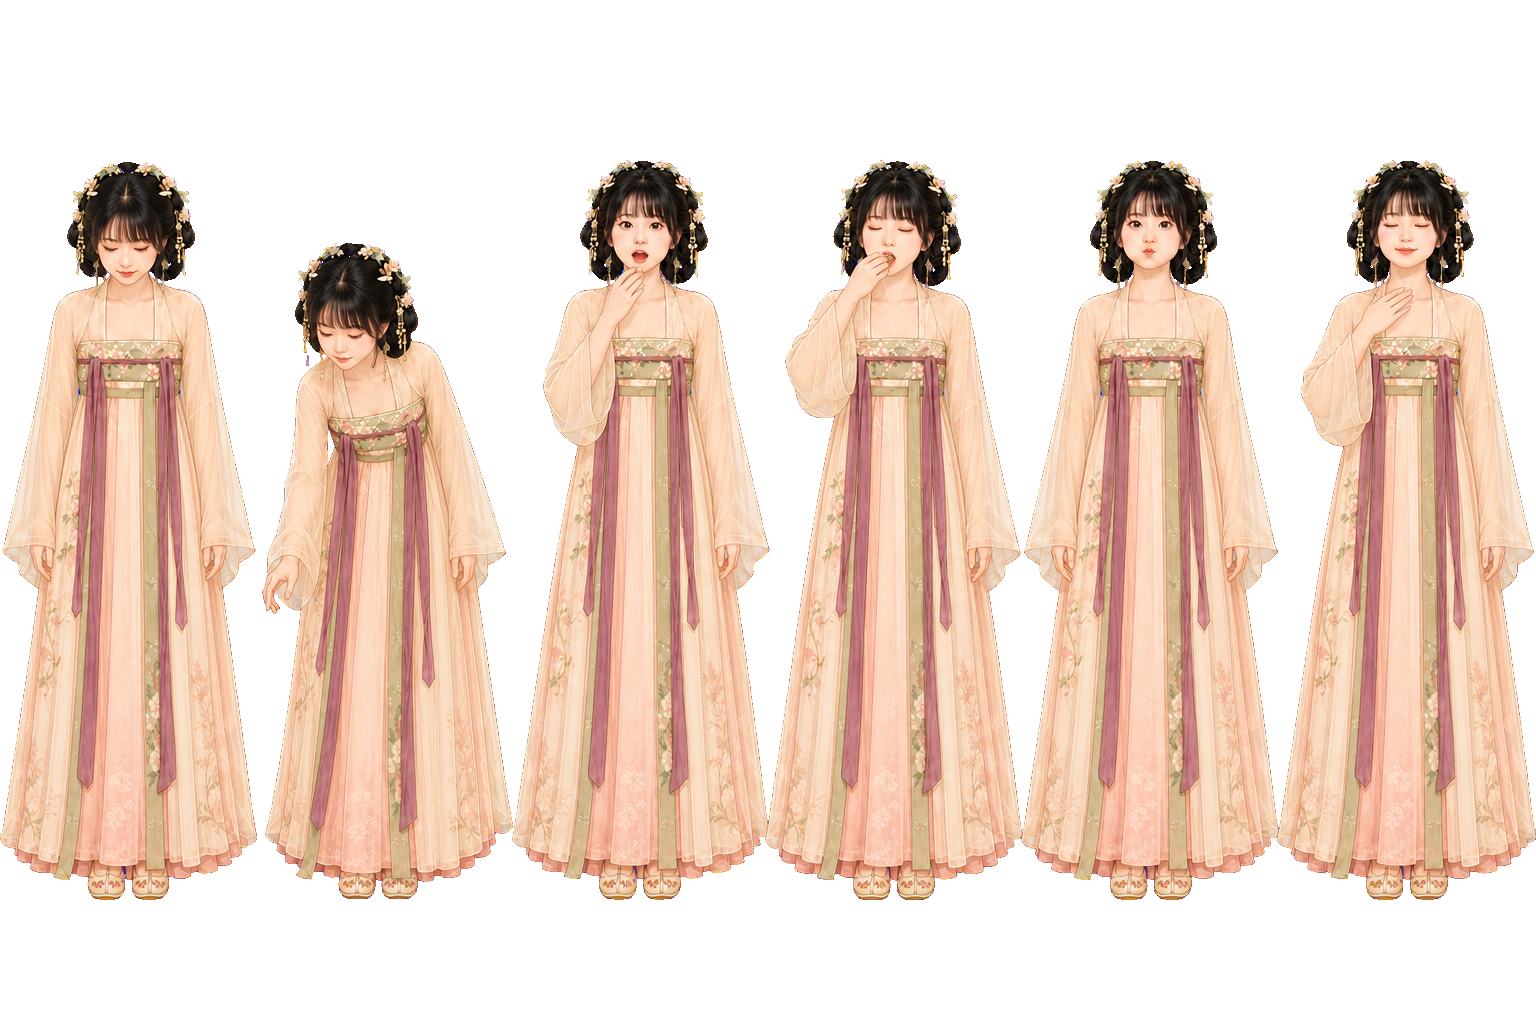
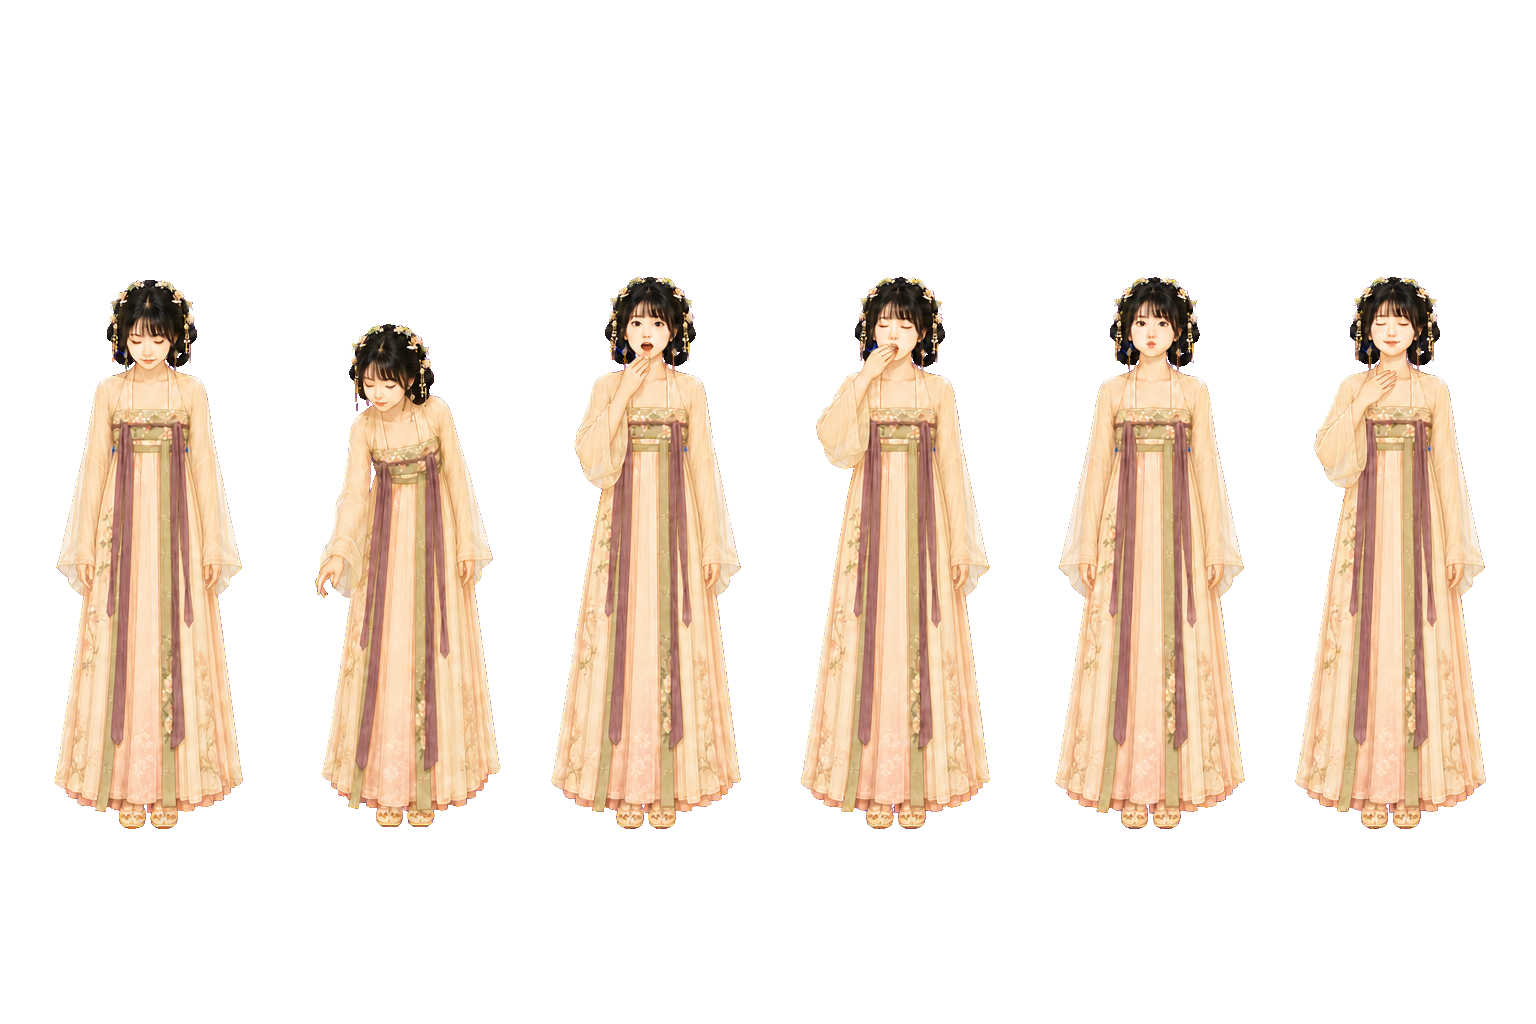
fix: isolate PangYu animation frames

diff --git a/tests/pet/characterPackage.test.js b/tests/pet/characterPackage.test.js
@@ -3,6 +3,7 @@ import { createHash } from "node:crypto";
 import { tmpdir } from "node:os";
 import { join, resolve } from "node:path";
 import { spawn } from "node:child_process";
+import { inflateSync } from "node:zlib";
 
 import { afterEach, describe, expect, test } from "vitest";
 
@@ -106,6 +107,48 @@ async function expectRepairedStrips(id, repaired) {
   }
 }
 
+async function opaqueBoundaryCounts(path, frameCount) {
+  const file = await readFile(path);
+  const width = file.readUInt32BE(16);
+  const height = file.readUInt32BE(20);
+  const idat = [];
+  for (let offset = 8; offset < file.length;) {
+    const length = file.readUInt32BE(offset);
+    if (file.subarray(offset + 4, offset + 8).toString("ascii") === "IDAT") {
+      idat.push(file.subarray(offset + 8, offset + 8 + length));
+    }
+    offset += 12 + length;
+  }
+  const encoded = inflateSync(Buffer.concat(idat));
+  const stride = width * 4;
+  const rgba = Buffer.alloc(stride * height);
+  const paeth = (left, up, upperLeft) => {
+    const estimate = left + up - upperLeft;
+    const leftDistance = Math.abs(estimate - left);
+    const upDistance = Math.abs(estimate - up);
+    const upperLeftDistance = Math.abs(estimate - upperLeft);
+    return leftDistance <= upDistance && leftDistance <= upperLeftDistance
+      ? left
+      : upDistance <= upperLeftDistance ? up : upperLeft;
+  };
+  for (let y = 0, source = 0; y < height; y += 1) {
+    const filter = encoded[source++];
+    for (let x = 0; x < stride; x += 1) {
+      const left = x >= 4 ? rgba[y * stride + x - 4] : 0;
+      const up = y > 0 ? rgba[(y - 1) * stride + x] : 0;
+      const upperLeft = y > 0 && x >= 4 ? rgba[(y - 1) * stride + x - 4] : 0;
+      const predictor = [0, left, up, Math.floor((left + up) / 2), paeth(left, up, upperLeft)][filter];
+      rgba[y * stride + x] = (encoded[source++] + predictor) & 0xff;
+    }
+  }
+  const slotWidth = width / frameCount;
+  return Array.from({ length: frameCount - 1 }, (_, index) => {
+    const x = slotWidth * (index + 1);
+    return Array.from({ length: height }, (_unused, y) => rgba[y * stride + x * 4 + 3])
+      .filter((alpha) => alpha > 0).length;
+  });
+}
+
 describe("character packages", () => {
   test("ships the approved UNO character packages", async () => {
     const expected = {
@@ -202,13 +245,28 @@ describe("character packages", () => {
       "eat-normal": { frameCount: 6, fps: 6 },
     });
     await expectRepairedStrips("uno-pangyu", {
[10 lines of base64/hex data omitted]
     });
     await expect(validateCharacterPackage(packageRoot, "uno-pangyu")).resolves.toEqual([]);
+  });
+
+  test("keeps PangYu animation frame boundaries transparent", async () => {
+    for (const [name, frameCount] of Object.entries({
+      "walk-slow-left": 8,
+      "walk-slow-right": 8,
+      "walk-slow-up": 8,
+      "walk-slow-down": 8,
+      "eat-normal": 6,
+    })) {
+      await expect(opaqueBoundaryCounts(
+        join(packageRoot, "uno-pangyu", "pet", "extended-animations", `${name}.png`),
+        frameCount,
+      )).resolves.toEqual(Array(frameCount - 1).fill(0));
+    }
   });
 
   test("keeps retained canonical sources at the public package root", async () => {
